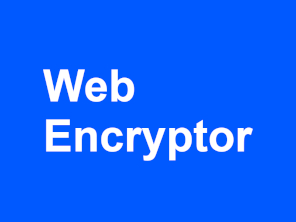
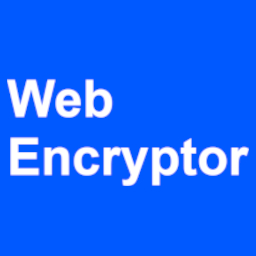
256x256 image

Changed region(s): [[0.0312, 0.5135, 1.0, 0.7297], [0.0, 0.2973, 0.4688, 0.4865]]

diff --git a/public/index.html b/public/index.html
@@ -15,9 +15,10 @@
     <meta property="og:description" content="The Online Encrypter"/>
     <meta property="og:site_name" content="Web Encryptor"/>
     <meta property="og:image" itemprop="image" content="https://webencryptor.herokuapp.com/image.jpg"/>
+    <meta itemprop="image" content="https://webencryptor.herokuapp.com/image.jpg"/>
     <meta property="og:image:type" content="image/jpeg"/>
-    <meta property="og:image:width" content="296"/>
-    <meta property="og:image:height" content="222"/>
+    <meta property="og:image:width" content="256"/>
+    <meta property="og:image:height" content="256"/>
     <link rel="stylesheet" type="text/css" href="index.css">
     <link rel="manifest" href="%PUBLIC_URL%/manifest.json" />
     <title>Web Encryptor</title>
